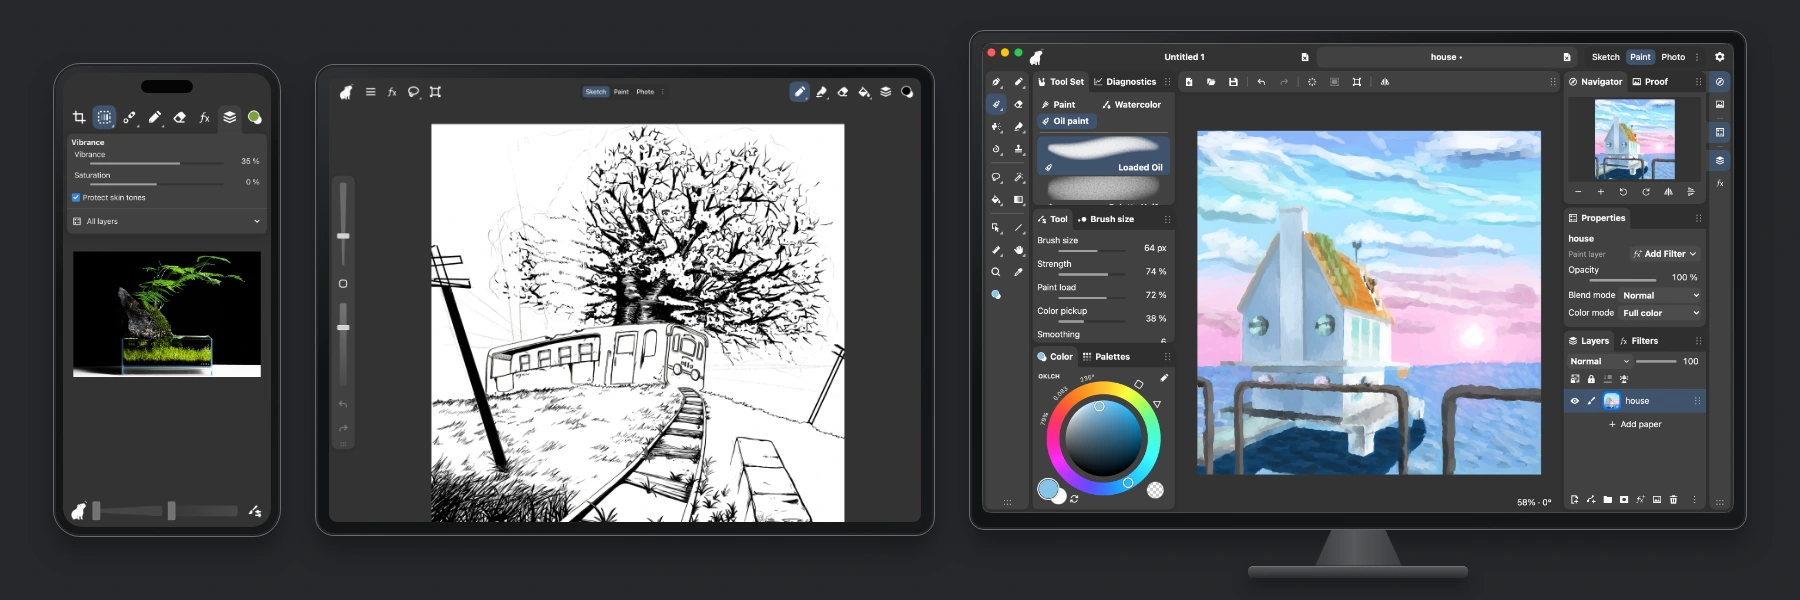
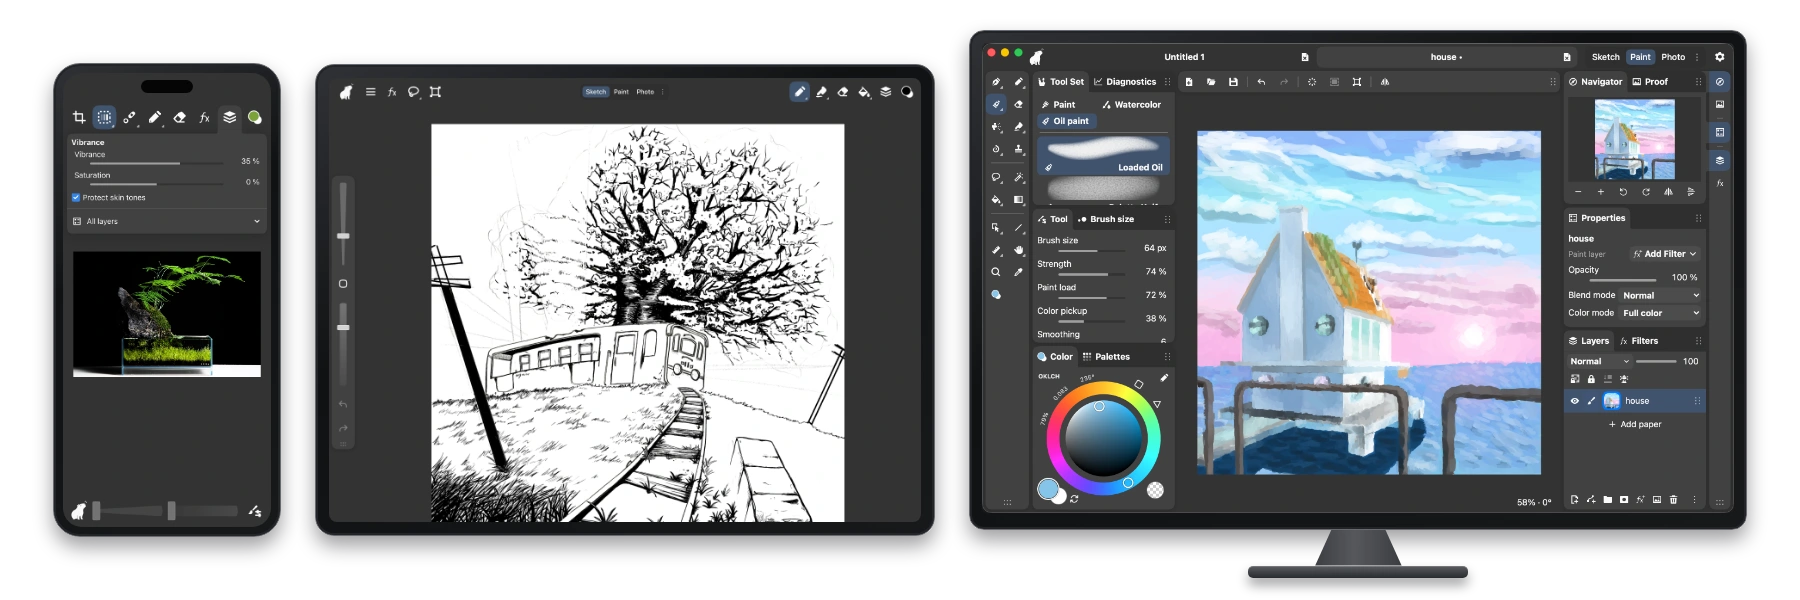
Adapt the 1.0.16 notes and figures to light and dark themes
The phone, tablet and desktop strip and the taper figure have transparent backgrounds, and the speed chart has light and dark variants chosen with a picture element. The taper figure shows abstract curves drawn with a Proportional taper, the chart names the Wacom MovinkPad Pro 14, and the notes link the graphics tablet report and explain the startup and photo speedups.

Changed region(s): [[0.0, 0.0, 1.0, 1.0]]

diff --git a/site/src/content/releases/1.0.16.md b/site/src/content/releases/1.0.16.md
@@ -12,15 +12,15 @@ Capy Canvas has a new UI tailored for small screens ([#15](https://github.com/ca
 
 ## Speed
 
-Startup is up to 5x faster, because Capy Canvas now compiles fewer shaders when it starts and keeps them between launches.
+Startup is up to 5x faster, because Capy Canvas now compiles fewer shaders when it starts and reuses them between launches.
 
-We also built a new display stack. Photos open up to 5x faster, because it only loads what's on screen, at the detail your screen needs. It's also more responsive, and it uses disk instead of RAM for large images. Capy Canvas now supports images up to 1 gigapixel.
+We also built a new display stack. Photos open up to 5x faster, because it loads textures at your screen's native resolution. It's also more responsive, and it uses disk instead of RAM for large images. Capy Canvas now supports images up to 1 gigapixel.
 
-![Seconds in 1.0.15 and 1.0.16. Startup on a TCL Tab 11 Gen 2: 22.5 and 3.9. Startup on an XPPen MovinkPad Pro 14: 7.6 and 1.5. Opening a 12 MP photo on the TCL Tab 11 Gen 2: 27.1 and 5.3. Opening a 61 MP photo on the MovinkPad Pro 14: 9.8 and 3.8.](https://capycanvas.art/assets/releases/1.0.16/speed.webp)
+<picture><source media="(prefers-color-scheme: dark)" srcset="https://capycanvas.art/assets/releases/1.0.16/speed-dark.webp"><img src="https://capycanvas.art/assets/releases/1.0.16/speed.webp" alt="Seconds in 1.0.15 and 1.0.16. Startup on a TCL Tab 11 Gen 2: 22.5 and 3.9. Startup on a Wacom MovinkPad Pro 14: 7.6 and 1.5. Opening a 12 MP photo on the TCL Tab 11 Gen 2: 27.1 and 5.3. Opening a 61 MP photo on the Wacom MovinkPad Pro 14: 9.8 and 3.8."></picture>
 
 ## Windows
 
-Capy Canvas starts up to 4x faster on Windows ([#21](https://github.com/capyatelier/capycanvas/issues/21)) and handles multi-GPU systems better ([#32](https://github.com/capyatelier/capycanvas/issues/32)). Graphics tablet support is improved too.
+Capy Canvas starts up to 4x faster on Windows ([#21](https://github.com/capyatelier/capycanvas/issues/21)). It also handles multi-GPU systems and graphics tablets better ([#32](https://github.com/capyatelier/capycanvas/issues/32)).
 
 ## Line art
 
